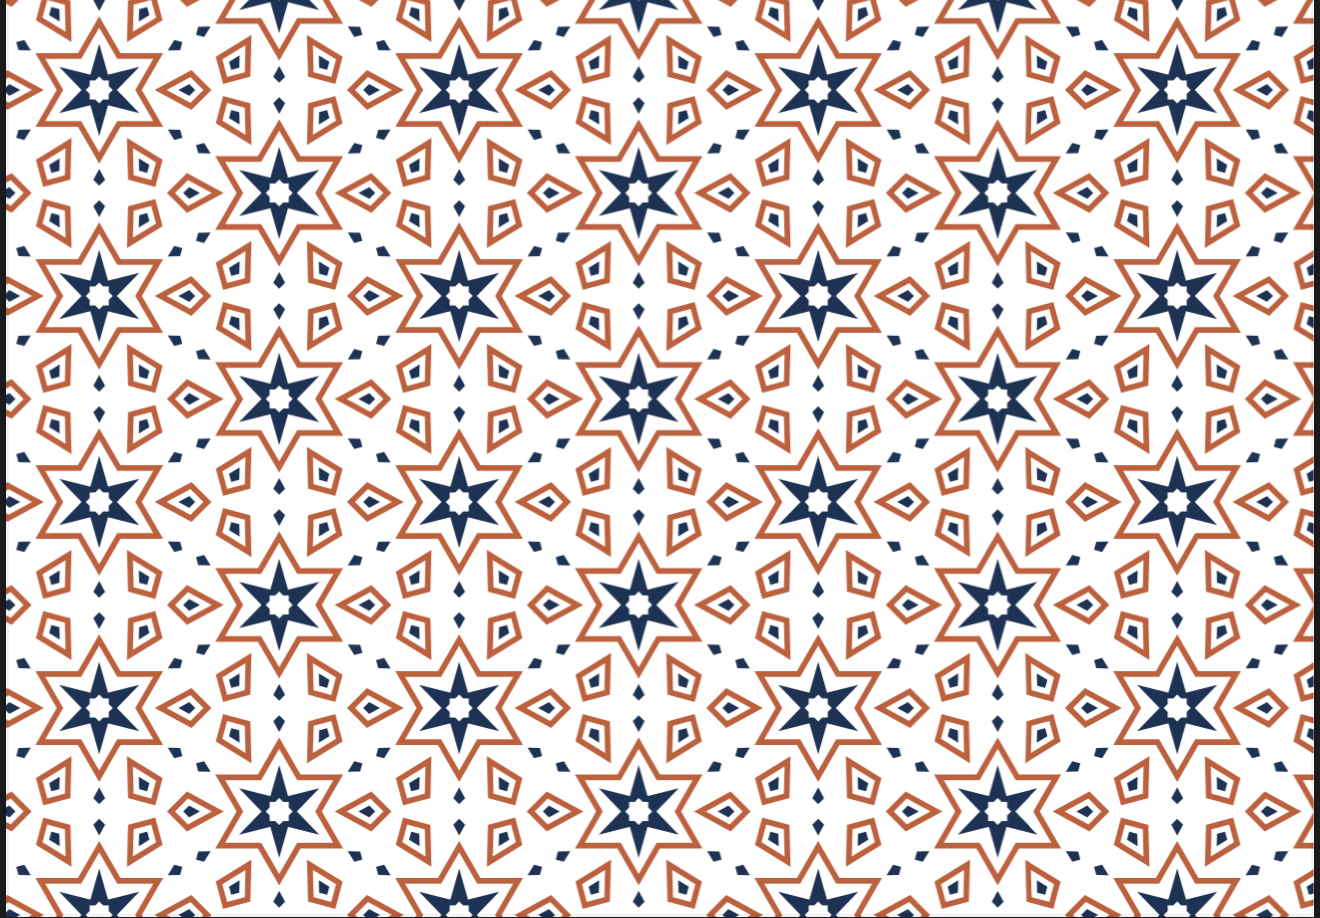
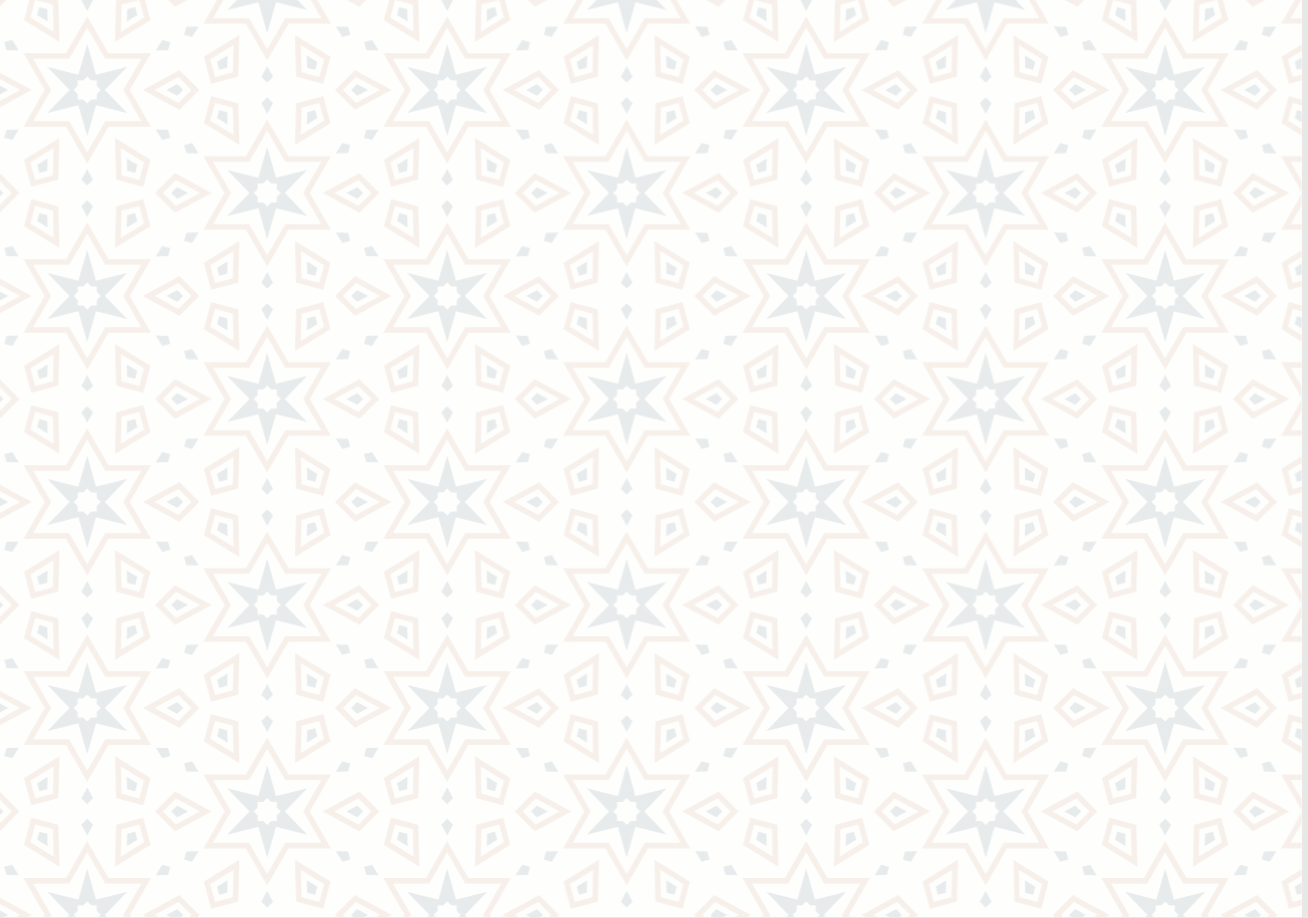
up

diff --git a/public/style.css b/public/style.css
@@ -18,17 +18,6 @@ body {
   justify-content: center;
   align-items: center;
 }
-body::before {
-  content: "";
-  position: absolute;
-  top: 0;
-  left: 0;
-  width: 100%;
-  height: 100%;
-  background: rgba(255, 255, 255, 0.9);
-  backdrop-filter: blur(1px);
-  z-index: -1;
-}
 
 .section {
   padding: 40px;

diff --git a/public/admin.html b/public/admin.html
@@ -10,7 +10,7 @@
       rel="stylesheet"
     />
   </head>
-  <body style="background: rgba(255, 255, 255, 0.9)">
+  <body>
     <div id="loginSection" class="section">
       <h1>Admin Login</h1>
       <div class="login-form">
